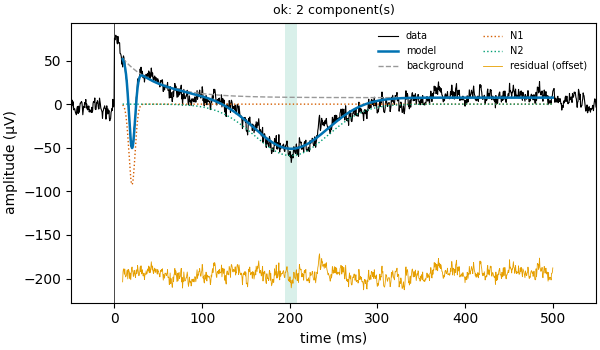
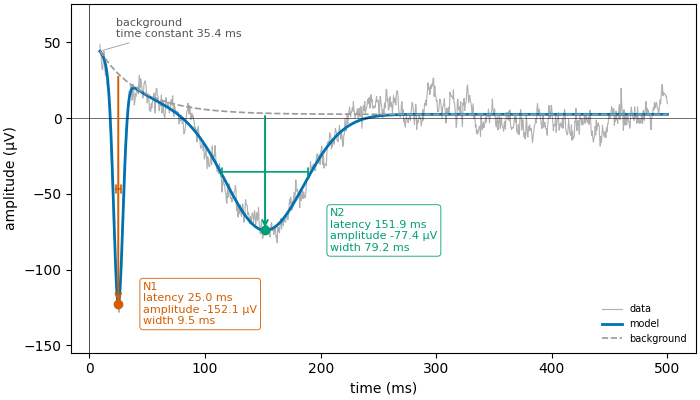
Rebuild the website: one-line imports, plot_response and plot_annotated_fit in tutorial 01

Changed region(s): [[0.03, 0.0, 1.0, 1.0], [0.0, 0.3143, 0.03, 0.6286], [0.63, 0.0857, 0.78, 0.2]]

diff --git a/auto_tutorials/plot_01_model_description.html b/auto_tutorials/plot_01_model_description.html
@@ -102,10 +102,7 @@ each bump happens, how high it is, and how wide it is.</p>
 <p>In this first tutorial, we make an example curve, let evoparam describe it, and look at
 what the description means.</p>
 <div class="highlight-Python notranslate"><div class="highlight"><pre><span class="c1"># Import what we need</span><span class="w">
-</span><span class="kn">import</span><span class="w"> </span><span class="nn">matplotlib</span><span class="nn">.</span><span class="nn">pyplot</span><span class="w"> </span><span class="k">as</span><span class="w"> </span><span class="nn">plt</span><span class="w">
-</span><span class="w">
-</span><span class="kn">from</span><span class="w"> </span><span class="nn">evoparam</span><span class="w"> </span><span class="kn">import</span> <span class="n">report</span><span class="w">
-</span><span class="kn">from</span><span class="w"> </span><span class="nn">evoparam</span><span class="nn">.</span><span class="nn">sim</span><span class="w"> </span><span class="kn">import</span> <span class="n">gen_response</span><span class="w">
+</span><span class="kn">from</span><span class="w"> </span><span class="nn">evoparam</span><span class="w"> </span><span class="kn">import</span> <span class="n">gen_response</span><span class="p">,</span> <span class="n">plot_annotated_fit</span><span class="p">,</span> <span class="n">plot_response</span><span class="p">,</span> <span class="n">report</span><span class="w">
 </span></pre></div></div>
 </section>
 <section id="making-an-example-curve">
@@ -124,13 +121,9 @@ what the description means.</p>
 </span></pre></div></div>
 <p><code class="docutils literal notranslate"><span class="pre">seed=3</span></code> fixes the random noise, so that you get the same curve each time you run this
 page.</p>
-<p>Let’s look at the curve. The stimulus happens at time 0.</p>
-<div class="highlight-Python notranslate"><div class="highlight"><pre><span class="c1"># Plot the curve, with time in ms</span><span class="w">
-</span><span class="n">plt</span><span class="o">.</span><span class="n">plot</span><span class="p">(</span><span class="n">times</span> <span class="o">*</span> <span class="mi">1000</span><span class="p">,</span> <span class="n">signal</span><span class="p">,</span> <span class="n">color</span><span class="o">=</span><span class="s2">&quot;</span><span class="s2">black</span><span class="s2">&quot;</span><span class="p">,</span> <span class="n">linewidth</span><span class="o">=</span><span class="mf">0.8</span><span class="p">)</span><span class="w">
-</span><span class="n">plt</span><span class="o">.</span><span class="n">xlim</span><span class="p">(</span><span class="o">-</span><span class="mi">100</span><span class="p">,</span> <span class="mi">500</span><span class="p">)</span><span class="w">
-</span><span class="n">plt</span><span class="o">.</span><span class="n">xlabel</span><span class="p">(</span><span class="s2">&quot;</span><span class="s2">Time (ms)</span><span class="s2">&quot;</span><span class="p">)</span><span class="w">
-</span><span class="n">plt</span><span class="o">.</span><span class="n">ylabel</span><span class="p">(</span><span class="s2">&quot;</span><span class="s2">Voltage (µV)</span><span class="s2">&quot;</span><span class="p">)</span><span class="w">
-</span><span class="n">plt</span><span class="o">.</span><span class="n">show</span><span class="p">(</span><span class="p">)</span><span class="w">
+<p>Let’s look at the curve. The stimulus happens at time 0 (the dashed line).</p>
+<div class="highlight-Python notranslate"><div class="highlight"><pre><span class="c1"># Plot the curve, from 100 ms before to 500 ms after the stimulus</span><span class="w">
+</span><span class="n">fig</span> <span class="o">=</span> <span class="n">plot_response</span><span class="p">(</span><span class="n">times</span><span class="p">,</span> <span class="n">signal</span><span class="p">,</span> <span class="n">xlim</span><span class="o">=</span><span class="p">[</span><span class="o">-</span><span class="mi">100</span><span class="p">,</span> <span class="mi">500</span><span class="p">]</span><span class="p">)</span><span class="w">
 </span></pre></div></div>
 <img src="../_images/sphx_glr_plot_01_model_description_001.png" srcset="../_images/sphx_glr_plot_01_model_description_001.png" alt="plot 01 model description" class = "sphx-glr-single-img"/><p>Before 0, the curve only wiggles: that is noise. Just after 0 it jumps up and slowly comes
 back, then the two bumps go down, one sharp and one broad.</p>
@@ -169,6 +162,19 @@ named them <strong>N1</strong> and <strong>N2</strong>: N for a bump that goes d
 dotted lines show each part of the model on its own, and the orange line at the bottom is
 what is left over.</p>
 </section>
+<section id="reading-the-numbers-on-the-curve">
+<h2>Reading the numbers on the curve<a class="headerlink" href="#reading-the-numbers-on-the-curve" title="Link to this heading">¶</a></h2>
+<p><code class="docutils literal notranslate"><span class="pre">plot_annotated_fit</span></code> draws each number where it is read on the curve:</p>
+<ul class="simple">
+<li><p>the <strong>dot</strong> is the peak of the bump;</p></li>
+<li><p>the <strong>arrow</strong> goes from the background to the peak: its length is the amplitude;</p></li>
+<li><p>the <strong>dotted line</strong> down to the time axis gives the latency;</p></li>
+<li><p>the <strong>bar</strong> across the bump, at half its height, is the width.</p></li>
+</ul>
+<div class="highlight-Python notranslate"><div class="highlight"><pre><span class="c1"># Draw the model with its numbers</span><span class="w">
+</span><span class="n">fig</span> <span class="o">=</span> <span class="n">plot_annotated_fit</span><span class="p">(</span><span class="n">fit</span><span class="p">)</span><span class="w">
+</span></pre></div></div>
+<img src="../_images/sphx_glr_plot_01_model_description_003.png" srcset="../_images/sphx_glr_plot_01_model_description_003.png" alt="plot 01 model description" class = "sphx-glr-single-img"/></section>
 <section id="conceptual-overview">
 <h2>Conceptual overview<a class="headerlink" href="#conceptual-overview" title="Link to this heading">¶</a></h2>
 <p>evoparam sees every curve as the sum of three parts.</p>
@@ -213,7 +219,7 @@ second bump and a stronger background.</p>
 </span><span class="n">times2</span><span class="p">,</span> <span class="n">signal2</span> <span class="o">=</span> <span class="n">gen_response</span><span class="p">(</span><span class="n">bumps</span><span class="p">,</span> <span class="n">background</span><span class="o">=</span><span class="p">[</span><span class="mi">80</span><span class="p">,</span> <span class="mi">40</span><span class="p">]</span><span class="p">,</span> <span class="n">seed</span><span class="o">=</span><span class="mi">1</span><span class="p">)</span><span class="w">
 </span><span class="nb">print</span><span class="p">(</span><span class="n">report</span><span class="p">(</span><span class="n">times2</span><span class="p">,</span> <span class="n">signal2</span><span class="p">,</span> <span class="n">preset</span><span class="o">=</span><span class="s2">&quot;</span><span class="s2">ccep</span><span class="s2">&quot;</span><span class="p">)</span><span class="p">)</span><span class="w">
 </span></pre></div></div>
-<img src="../_images/sphx_glr_plot_01_model_description_003.png" srcset="../_images/sphx_glr_plot_01_model_description_003.png" alt="ok: 2 component(s)" class = "sphx-glr-single-img"/><div class="sphx-glr-script-out highlight-none notranslate"><div class="highlight"><pre><span></span>==================================================================
+<img src="../_images/sphx_glr_plot_01_model_description_004.png" srcset="../_images/sphx_glr_plot_01_model_description_004.png" alt="ok: 2 component(s)" class = "sphx-glr-single-img"/><div class="sphx-glr-script-out highlight-none notranslate"><div class="highlight"><pre><span></span>==================================================================
                     evoparam - RESPONSE MODEL
 
                      fit window: 9 to 500 ms
@@ -241,7 +247,7 @@ small compared to the noise, evoparam starts to miss them, as anyone would.</p>
 <p>evoparam describes a curve as a background, a few bumps and some noise, and gives the
 timing, height and width of each bump. In the next tutorials, we look at the settings of
 the model and use it on real recordings.</p>
-<p class="sphx-glr-timing"><strong>Total running time of the script:</strong> (0 minutes 1.788 seconds)</p>
+<p class="sphx-glr-timing"><strong>Total running time of the script:</strong> (0 minutes 1.811 seconds)</p>
 <div class="sphx-glr-footer sphx-glr-footer-example docutils container" id="sphx-glr-download-auto-tutorials-plot-01-model-description-py">
 <div class="sphx-glr-download sphx-glr-download-jupyter docutils container">
 <p><a class="reference download internal" download="" href="../_downloads/fc75f50fc2efd4dd4ab0291b9e2d23f9/plot_01_model_description.ipynb"><code class="xref download docutils literal notranslate"><span class="pre">Download</span> <span class="pre">Jupyter</span> <span class="pre">notebook:</span> <span class="pre">plot_01_model_description.ipynb</span></code></a></p>

diff --git a/searchindex.js b/searchindex.js
@@ -1,1 +1,1 @@
-Search.setIndex({"alltitles":{"01: Model description":[[1,null]],"Computation times":[[2,null],[4,null]],"Conceptual overview":[[1,"conceptual-overview"]],"Conclusion":[[1,"conclusion"]],"Describing the curve":[[1,"describing-the-curve"]],"Get started":[[3,"get-started"]],"Install":[[3,"install"]],"Introduction":[[1,"introduction"]],"Making an example curve":[[1,"making-an-example-curve"]],"Mathematical description":[[1,"mathematical-description"]],"Trying another curve":[[1,"trying-another-curve"]],"Tutorials":[[0,null]],"evoparam":[[3,null]]},"docnames":["auto_tutorials/index","auto_tutorials/plot_01_model_description","auto_tutorials/sg_execution_times","index","sg_execution_times"],"envversion":{"sphinx":66,"sphinx.domains.c":3,"sphinx.domains.changeset":1,"sphinx.domains.citation":1,"sphinx.domains.cpp":9,"sphinx.domains.index":1,"sphinx.domains.javascript":3,"sphinx.domains.math":2,"sphinx.domains.python":4,"sphinx.domains.rst":2,"sphinx.domains.std":2,"sphinx_gallery.gen_gallery":1},"filenames":["auto_tutorials/index.rst","auto_tutorials/plot_01_model_description.rst","auto_tutorials/sg_execution_times.rst","index.rst","sg_execution_times.rst"],"indexentries":{},"objects":{},"objnames":{},"objtypes":{},"terms":{"A":1,"Each":1,"Here":1,"If":1,"In":1,"It":1,"The":1,"These":1,"This":1,"To":1,"What":1,"When":1,"a_k":1,"activ":1,"add":1,"alreadi":1,"amplitud":1,"ani":1,"answer":1,"anyon":1,"ask":1,"auto_tutori":2,"averag":1,"away":1,"axi":1,"b":1,"back":1,"background":[1,3],"befor":1,"bell":1,"better":1,"big":1,"black":1,"blue":1,"bottom":1,"brain":1,"broad":1,"bump":[1,3],"call":1,"ccep":1,"centr":1,"chang":1,"clean":1,"clear":1,"clone":3,"close":1,"code":1,"color":1,"com":3,"come":1,"compar":1,"compon":1,"constant":1,"curv":0,"decid":1,"describ":3,"descript":[0,2,3,4],"doc":4,"doe":[0,1],"dot":1,"download":1,"draw":1,"e":3,"earlier":1,"electr":1,"electrod":1,"end":1,"equip":1,"everi":1,"everyth":1,"evok":[1,3],"evoparam":[0,1],"exampl":[0,2,4],"execut":[2,4],"explain":1,"exponenti":1,"extra":1,"fade":1,"fast":1,"figur":1,"file":[2,4],"find":1,"first":[0,1],"fit":1,"fix":1,"flash":1,"formula":1,"found":1,"full":1,"galleri":[0,1,4],"gen_respons":1,"generat":[0,1],"get":1,"git":3,"github":3,"give":[1,3],"given":1,"go":1,"goe":1,"half":1,"happen":1,"height":[1,3],"help":1,"hidden":1,"high":1,"https":3,"import":1,"introduct":0,"invent":1,"ipynb":1,"jump":1,"jupyt":1,"just":1,"k":1,"keep":1,"know":1,"label":1,"latenc":1,"later":1,"learn":1,"left":1,"let":1,"level":1,"light":1,"like":1,"line":1,"linewidth":1,"look":1,"made":1,"mani":1,"matplotlib":1,"maximum":1,"mb":[2,4],"mean":1,"measur":1,"mem":[2,4],"microvolt":1,"millisecond":1,"minut":1,"miss":1,"model":[0,2,3,4],"move":1,"ms":1,"n":1,"n1":1,"n2":1,"name":1,"need":1,"negat":1,"new":1,"next":1,"nois":1,"notebook":1,"noth":1,"now":1,"number":1,"one":[0,1],"onli":1,"orang":1,"order":1,"page":1,"parameter":3,"part":1,"peak":1,"pip":3,"plot":1,"plot_01_model_descript":[1,2,4],"plt":1,"possibl":1,"preset":1,"print":1,"puls":1,"put":1,"py":[1,2,4],"pyplot":1,"python":1,"qualiti":1,"r2":1,"random":1,"readi":1,"real":1,"receiv":1,"record":1,"recov":1,"remov":1,"repeat":1,"report":1,"respons":[1,3],"right":1,"run":1,"s":1,"s_k":1,"scale":1,"script":1,"second":1,"see":1,"seed":1,"set":1,"shape":1,"sharp":1,"short":1,"show":[0,1],"shown":1,"signal":1,"signal2":1,"sim":1,"simpl":1,"size":1,"slow":[1,3],"slowli":1,"small":1,"smaller":1,"sound":1,"sourc":1,"sphinx":[0,1],"start":[0,1],"step":0,"stimulus":1,"stronger":1,"sum":1,"sum_":1,"summari":1,"t":1,"thick":1,"three":1,"time":[1,3],"times2":1,"tini":1,"total":[1,2,4],"tutori":[1,4],"two":1,"use":1,"usual":1,"varepsilon":1,"voltag":1,"want":1,"wave":1,"whatev":1,"whi":1,"whose":1,"wide":1,"width":[1,3],"wiggl":1,"window":1,"without":1,"work":1,"written":1,"x":1,"xlabel":1,"xlim":1,"y":1,"yannbellec":3,"ylabel":1,"zip":1,"\u00b5v":1},"titles":["Tutorials","01: Model description","Computation times","evoparam","Computation times"],"titleterms":{"anoth":1,"comput":[2,4],"conceptu":1,"conclus":1,"curv":1,"describ":1,"descript":1,"evoparam":3,"exampl":1,"get":3,"instal":3,"introduct":1,"make":1,"mathemat":1,"model":1,"overview":1,"start":3,"time":[2,4],"tri":1,"tutori":0}})
+Search.setIndex({"alltitles":{"01: Model description":[[1,null]],"Computation times":[[2,null],[4,null]],"Conceptual overview":[[1,"conceptual-overview"]],"Conclusion":[[1,"conclusion"]],"Describing the curve":[[1,"describing-the-curve"]],"Get started":[[3,"get-started"]],"Install":[[3,"install"]],"Introduction":[[1,"introduction"]],"Making an example curve":[[1,"making-an-example-curve"]],"Mathematical description":[[1,"mathematical-description"]],"Reading the numbers on the curve":[[1,"reading-the-numbers-on-the-curve"]],"Trying another curve":[[1,"trying-another-curve"]],"Tutorials":[[0,null]],"evoparam":[[3,null]]},"docnames":["auto_tutorials/index","auto_tutorials/plot_01_model_description","auto_tutorials/sg_execution_times","index","sg_execution_times"],"envversion":{"sphinx":66,"sphinx.domains.c":3,"sphinx.domains.changeset":1,"sphinx.domains.citation":1,"sphinx.domains.cpp":9,"sphinx.domains.index":1,"sphinx.domains.javascript":3,"sphinx.domains.math":2,"sphinx.domains.python":4,"sphinx.domains.rst":2,"sphinx.domains.std":2,"sphinx_gallery.gen_gallery":1},"filenames":["auto_tutorials/index.rst","auto_tutorials/plot_01_model_description.rst","auto_tutorials/sg_execution_times.rst","index.rst","sg_execution_times.rst"],"indexentries":{},"objects":{},"objnames":{},"objtypes":{},"terms":{"A":1,"Each":1,"Here":1,"If":1,"In":1,"It":1,"The":1,"These":1,"This":1,"To":1,"What":1,"When":1,"a_k":1,"across":1,"activ":1,"add":1,"alreadi":1,"amplitud":1,"ani":1,"answer":1,"anyon":1,"arrow":1,"ask":1,"auto_tutori":2,"averag":1,"away":1,"axi":1,"b":1,"back":1,"background":[1,3],"bar":1,"befor":1,"bell":1,"better":1,"big":1,"black":1,"blue":1,"bottom":1,"brain":1,"broad":1,"bump":[1,3],"call":1,"ccep":1,"centr":1,"chang":1,"clean":1,"clear":1,"clone":3,"close":1,"code":1,"com":3,"come":1,"compar":1,"compon":1,"constant":1,"curv":0,"dash":1,"decid":1,"describ":3,"descript":[0,2,3,4],"doc":4,"doe":[0,1],"dot":1,"download":1,"draw":1,"e":3,"earlier":1,"electr":1,"electrod":1,"end":1,"equip":1,"everi":1,"everyth":1,"evok":[1,3],"evoparam":[0,1],"exampl":[0,2,4],"execut":[2,4],"explain":1,"exponenti":1,"extra":1,"fade":1,"fast":1,"fig":1,"figur":1,"file":[2,4],"find":1,"first":[0,1],"fit":1,"fix":1,"flash":1,"formula":1,"found":1,"full":1,"galleri":[0,1,4],"gen_respons":1,"generat":[0,1],"get":1,"git":3,"github":3,"give":[1,3],"given":1,"go":1,"goe":1,"half":1,"happen":1,"height":[1,3],"help":1,"hidden":1,"high":1,"https":3,"import":1,"introduct":0,"invent":1,"ipynb":1,"jump":1,"jupyt":1,"just":1,"k":1,"keep":1,"know":1,"label":1,"latenc":1,"later":1,"learn":1,"left":1,"length":1,"let":1,"level":1,"light":1,"like":1,"line":1,"look":1,"made":1,"mani":1,"maximum":1,"mb":[2,4],"mean":1,"measur":1,"mem":[2,4],"microvolt":1,"millisecond":1,"minut":1,"miss":1,"model":[0,2,3,4],"move":1,"ms":1,"n":1,"n1":1,"n2":1,"name":1,"need":1,"negat":1,"new":1,"next":1,"nois":1,"notebook":1,"noth":1,"now":1,"one":[0,1],"onli":1,"orang":1,"order":1,"page":1,"parameter":3,"part":1,"peak":1,"pip":3,"plot":1,"plot_01_model_descript":[1,2,4],"plot_annotated_fit":1,"plot_respons":1,"possibl":1,"preset":1,"print":1,"puls":1,"put":1,"py":[1,2,4],"python":1,"qualiti":1,"r2":1,"random":1,"readi":1,"real":1,"receiv":1,"record":1,"recov":1,"remov":1,"repeat":1,"report":1,"respons":[1,3],"right":1,"run":1,"s":1,"s_k":1,"scale":1,"script":1,"second":1,"see":1,"seed":1,"set":1,"shape":1,"sharp":1,"short":1,"show":[0,1],"shown":1,"signal":1,"signal2":1,"simpl":1,"size":1,"slow":[1,3],"slowli":1,"small":1,"smaller":1,"sound":1,"sourc":1,"sphinx":[0,1],"start":[0,1],"step":0,"stimulus":1,"stronger":1,"sum":1,"sum_":1,"summari":1,"t":1,"thick":1,"three":1,"time":[1,3],"times2":1,"tini":1,"total":[1,2,4],"tutori":[1,4],"two":1,"use":1,"usual":1,"varepsilon":1,"voltag":1,"want":1,"wave":1,"whatev":1,"whi":1,"whose":1,"wide":1,"width":[1,3],"wiggl":1,"window":1,"without":1,"work":1,"written":1,"x":1,"xlim":1,"y":1,"yannbellec":3,"zip":1,"\u00b5v":1},"titles":["Tutorials","01: Model description","Computation times","evoparam","Computation times"],"titleterms":{"anoth":1,"comput":[2,4],"conceptu":1,"conclus":1,"curv":1,"describ":1,"descript":1,"evoparam":3,"exampl":1,"get":3,"instal":3,"introduct":1,"make":1,"mathemat":1,"model":1,"number":1,"overview":1,"read":1,"start":3,"time":[2,4],"tri":1,"tutori":0}})

diff --git a/sg_execution_times.html b/sg_execution_times.html
@@ -81,7 +81,7 @@
       
   <section id="computation-times">
 <span id="sphx-glr-sg-execution-times"></span><h1>Computation times<a class="headerlink" href="#computation-times" title="Link to this heading">¶</a></h1>
-<p><strong>00:01.788</strong> total execution time for 1 file <strong>from all galleries</strong>:</p>
+<p><strong>00:01.811</strong> total execution time for 1 file <strong>from all galleries</strong>:</p>
 <div class="docutils container">
 <style scoped>
 <link href="https://cdnjs.cloudflare.com/ajax/libs/twitter-bootstrap/5.3.0/css/bootstrap.min.css" rel="stylesheet" />
@@ -103,7 +103,7 @@ $(document).ready( function () {
 </thead>
 <tbody>
 <tr class="row-even"><td><p><a class="reference internal" href="auto_tutorials/plot_01_model_description.html#sphx-glr-auto-tutorials-plot-01-model-description-py"><span class="std std-ref">01: Model description</span></a> (<code class="docutils literal notranslate"><span class="pre">../docs/tutorials/plot_01_model_description.py</span></code>)</p></td>
-<td><p>00:01.788</p></td>
+<td><p>00:01.811</p></td>
 <td><p>0.0</p></td>
 </tr>
 </tbody>

diff --git a/auto_tutorials/sg_execution_times.html b/auto_tutorials/sg_execution_times.html
@@ -81,7 +81,7 @@
       
   <section id="computation-times">
 <span id="sphx-glr-auto-tutorials-sg-execution-times"></span><h1>Computation times<a class="headerlink" href="#computation-times" title="Link to this heading">¶</a></h1>
-<p><strong>00:01.788</strong> total execution time for 1 file <strong>from auto_tutorials</strong>:</p>
+<p><strong>00:01.811</strong> total execution time for 1 file <strong>from auto_tutorials</strong>:</p>
 <div class="docutils container">
 <style scoped>
 <link href="https://cdnjs.cloudflare.com/ajax/libs/twitter-bootstrap/5.3.0/css/bootstrap.min.css" rel="stylesheet" />
@@ -103,7 +103,7 @@ $(document).ready( function () {
 </thead>
 <tbody>
 <tr class="row-even"><td><p><a class="reference internal" href="plot_01_model_description.html#sphx-glr-auto-tutorials-plot-01-model-description-py"><span class="std std-ref">01: Model description</span></a> (<code class="docutils literal notranslate"><span class="pre">plot_01_model_description.py</span></code>)</p></td>
-<td><p>00:01.788</p></td>
+<td><p>00:01.811</p></td>
 <td><p>0.0</p></td>
 </tr>
 </tbody>

diff --git a/_downloads/fffbd92de9532af77bdd8868014d8ce7/plot_01_model_description.py b/_downloads/fffbd92de9532af77bdd8868014d8ce7/plot_01_model_description.py
@@ -27,10 +27,7 @@ What evoparam does, shown on one example curve.
 ###################################################################################################
 
 # Import what we need
-import matplotlib.pyplot as plt
-
-from evoparam import report
-from evoparam.sim import gen_response
+from evoparam import gen_response, plot_annotated_fit, plot_response, report
 
 ###################################################################################################
 # Making an example curve
@@ -56,16 +53,12 @@ times, signal = gen_response([[25, -150, 10], [150, -80, 80]], seed=3)
 # ``seed=3`` fixes the random noise, so that you get the same curve each time you run this
 # page.
 #
-# Let's look at the curve. The stimulus happens at time 0.
+# Let's look at the curve. The stimulus happens at time 0 (the dashed line).
 
 ###################################################################################################
 
-# Plot the curve, with time in ms
-plt.plot(times * 1000, signal, color="black", linewidth=0.8)
-plt.xlim(-100, 500)
-plt.xlabel("Time (ms)")
-plt.ylabel("Voltage (µV)")
-plt.show()
+# Plot the curve, from 100 ms before to 500 ms after the stimulus
+fig = plot_response(times, signal, xlim=[-100, 500])
 
 ###################################################################################################
 #
@@ -98,6 +91,22 @@ print(fit)
 # In the figure, the black line is our curve and the thick blue line is the model. The
 # dotted lines show each part of the model on its own, and the orange line at the bottom is
 # what is left over.
+
+###################################################################################################
+# Reading the numbers on the curve
+# --------------------------------
+#
+# ``plot_annotated_fit`` draws each number where it is read on the curve:
+#
+# - the **dot** is the peak of the bump;
+# - the **arrow** goes from the background to the peak: its length is the amplitude;
+# - the **dotted line** down to the time axis gives the latency;
+# - the **bar** across the bump, at half its height, is the width.
+
+###################################################################################################
+
+# Draw the model with its numbers
+fig = plot_annotated_fit(fit)
 
 ###################################################################################################
 # Conceptual overview
